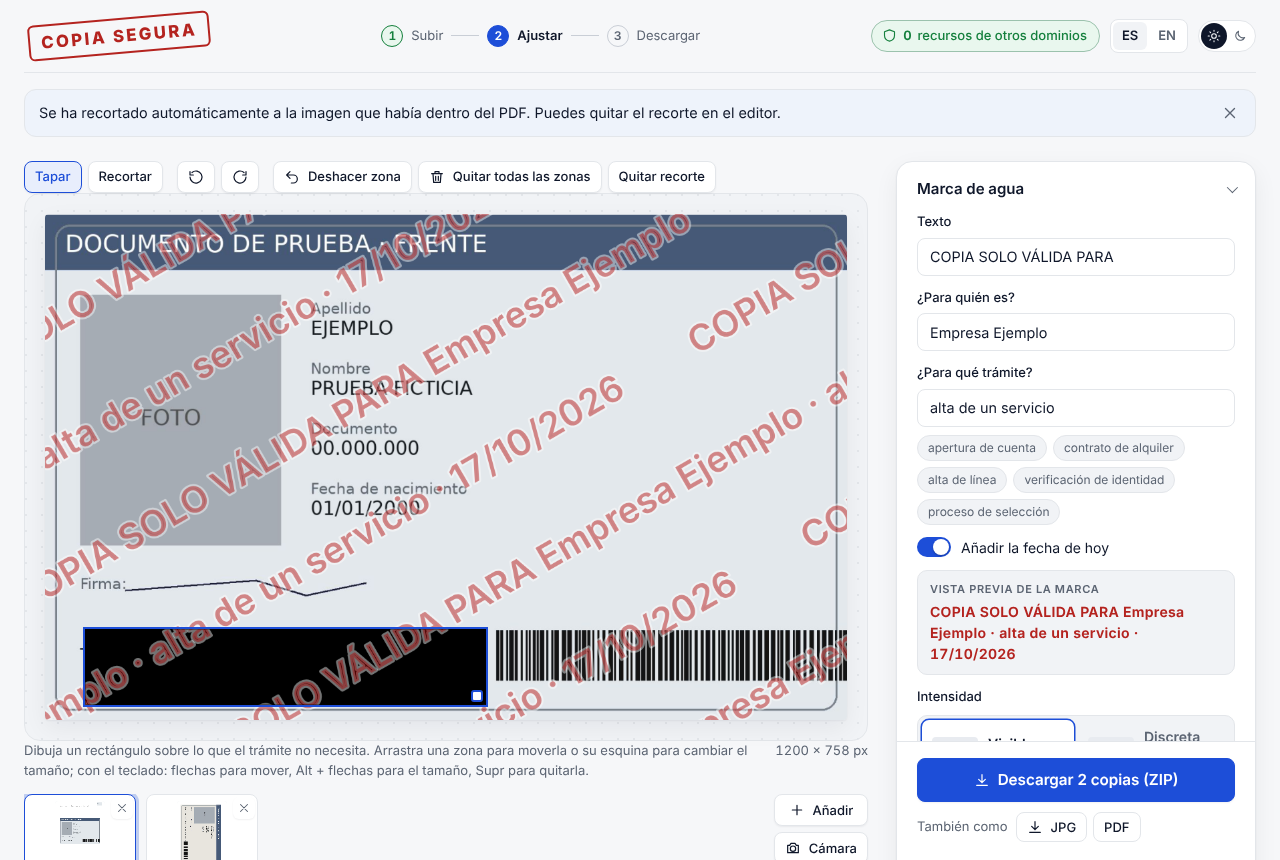
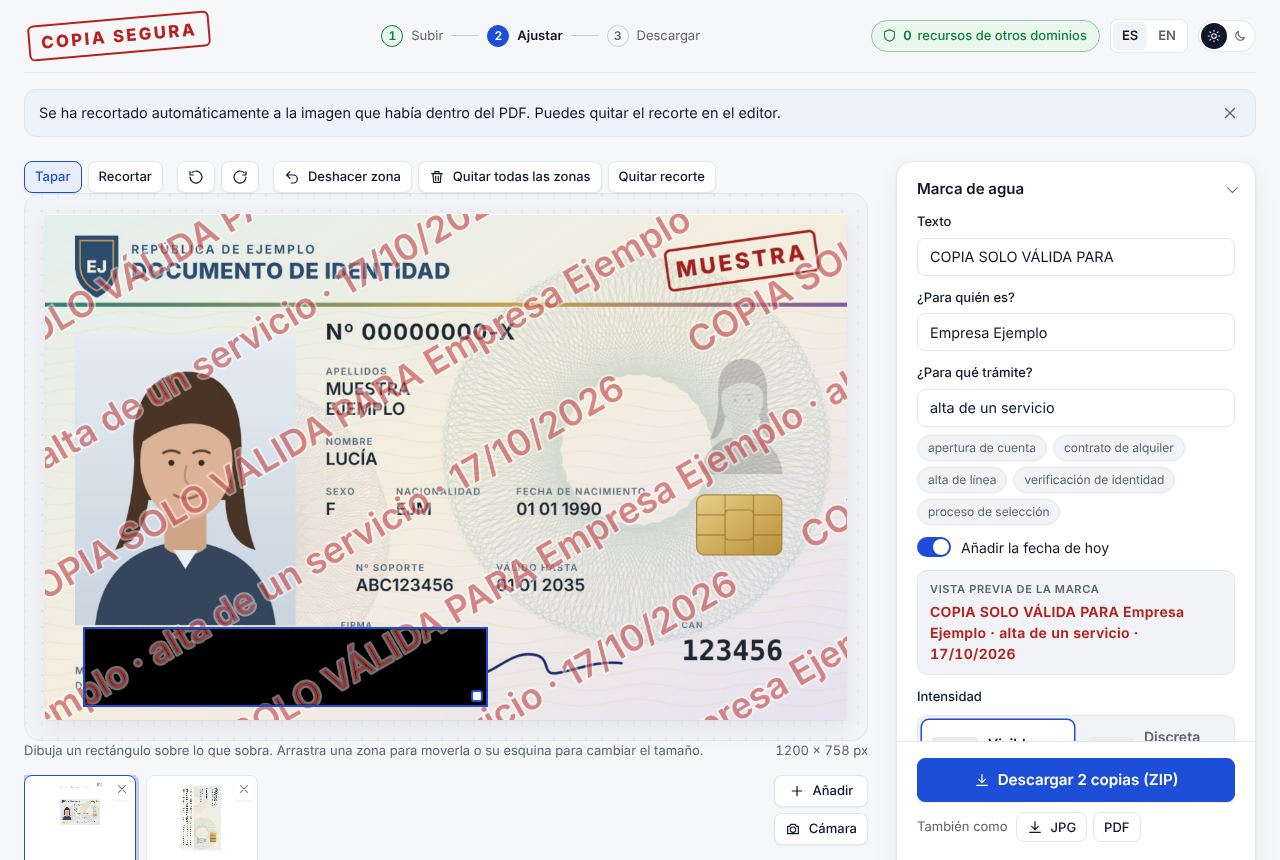
docs: changelog 1.4.0, comando example:cards y capturas nuevas
Claude-Session: https://claude.ai/code/session_01LUxn2Ph3TUErC9MN3Ck8ty

diff --git a/CHANGELOG.md b/CHANGELOG.md
@@ -10,11 +10,19 @@ SPEC-0010: cualquier documento, no solo el DNI.
 
 - La portada dice qué acepta: DNI, pasaporte, nómina, contrato, factura o cualquier PDF o imagen
   (RF-31). Titular, carga, descripción y README hablan de "documentos".
+- Tarjeta de muestra nueva, creíble e inventada (guilloches, chip, retrato ilustrado, firma, CAN,
+  zona de lectura mecánica y sello MUESTRA), generada por `npm run example:cards` (RF-34).
+
+### Cambiado
+
+- Textos más breves; el detalle va en desplegables _Más información_ (RF-33).
 
 ### Corregido
 
 - El recorte automático de PDF ya no actúa en páginas con texto propio: una nómina o un contrato
   con un logo grande se recortaba al logo (RF-32).
+- El código de barras de la tarjeta de ejemplo se salía del borde; el sello del nombre se estiraba
+  a todo el ancho en el móvil.
 
 ## [1.3.0] · 2026-10-17
 

diff --git a/README.en.md b/README.en.md
@@ -135,6 +135,7 @@ scripts/          pdf.js assets, sample document, screenshots
 | `npm run test:e2e`      | End-to-end tests against the production build (`npx playwright install chromium` the first time) |
 | `npm run check`         | Lint, typecheck, formatting, tests and build: same as CI                                         |
 | `npm run build`         | Production build in `dist/` (`BASE_PATH=/copia-segura/` for Pages)                               |
+| `npm run example:cards` | Regenerates the fictional cards (front, back and demo)                                           |
 | `npm run example:build` | Regenerates the sample PDF from the fictional cards                                              |
 
 ## Contributing

diff --git a/README.md b/README.md
@@ -134,6 +134,7 @@ scripts/          recursos de pdf.js, documento de ejemplo, capturas
 | `npm run test:e2e`      | E2E contra el build de producción (`npx playwright install chromium` la primera vez) |
 | `npm run check`         | Lint, typecheck, formato, tests y build: lo mismo que CI                             |
 | `npm run build`         | Build de producción en `dist/` (`BASE_PATH=/copia-segura/` para Pages)               |
+| `npm run example:cards` | Regenera las tarjetas ficticias (frente, dorso y demo)                               |
 | `npm run example:build` | Regenera el PDF de ejemplo a partir de las tarjetas ficticias                        |
 
 ## Contribuir
